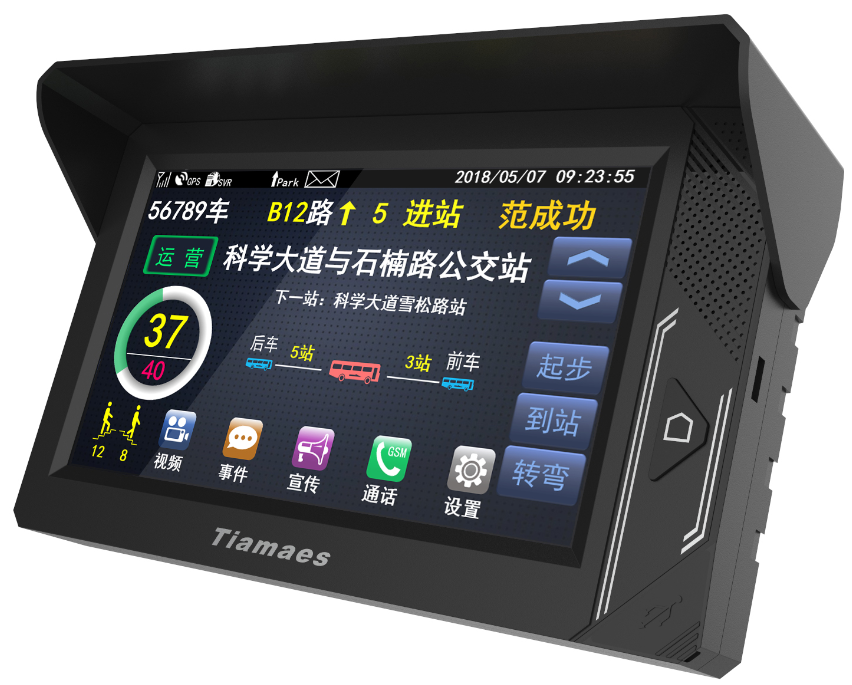
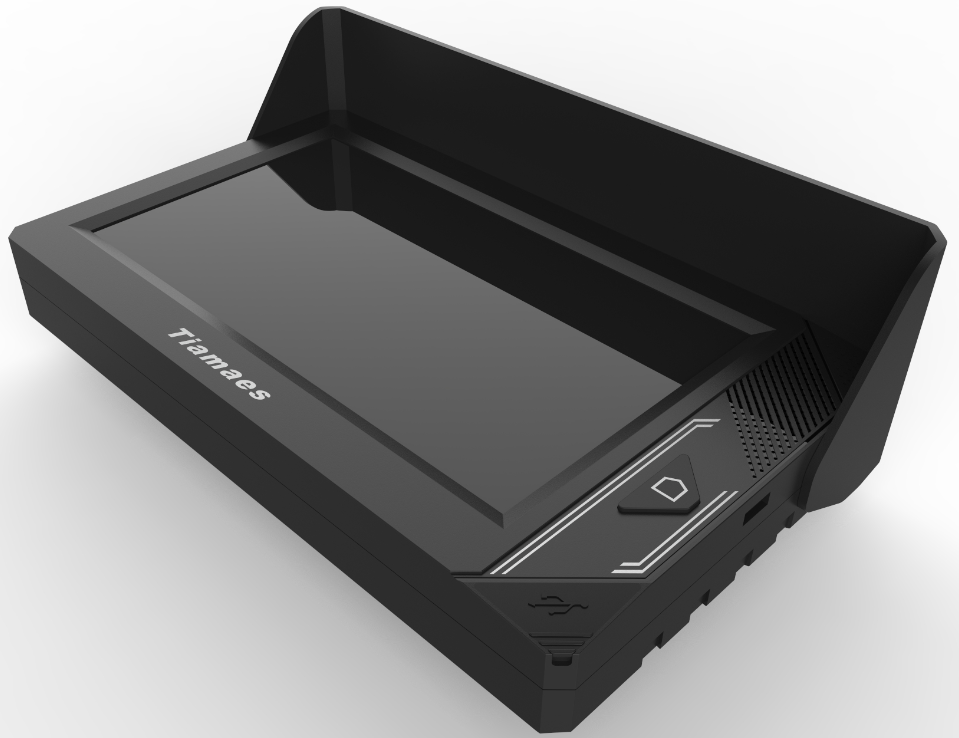
降低分辨率-1

diff --git a/docs/.vuepress/components/ElImageI18n.vue b/docs/.vuepress/components/ElImageI18n.vue
@@ -13,6 +13,10 @@ const props = defineProps({
     title: String,
     previewTeleported: String,
     srcTb: String,
+    lazy: {
+        type: Boolean,
+        default: true
+    }
 })
 
 const loadingText = computed(() =>
@@ -73,13 +77,14 @@ const getErrorStyle = computed(() => {
             };
     }
 });
+
 </script>
 
 <template>
 
     <el-image 
-        lazy
-        :src="props.srcTb ?? props.src" 
+        :lazy="props.lazy"
+        :src="props.srcTb?? props.src" 
         :alt="props.alt ?? props.title" 
         :title="props.title" 
         fit="contain" 

diff --git a/docs/.vuepress/plugins/img-to-el-img/index.js b/docs/.vuepress/plugins/img-to-el-img/index.js
@@ -8,8 +8,11 @@ export const imgToElImgPlugin = (options) => (app) => ({
             const height = token?.attrGet('height')? token?.attrGet('height')+ 'px' : '100%';
             const alt = token.content
 
+            const thumbSrc = env.base + token.attrGet('src').replace('/%E4%BA%A7%E5%93%81/', '/thumb/')
+
             return `<ElImageI18n 
                         src="${src}" 
+                        srcTb="${thumbSrc}"
                         alt="${alt}"
                         title="${alt}"
                         width="${width}"

diff --git a/docs/.vuepress/components/Carousel.vue b/docs/.vuepress/components/Carousel.vue
@@ -8,7 +8,9 @@ const props = defineProps(['height','pictures', 'motionBlur'])
     <el-carousel :motion-blur="props.motionBlur"  :height="props.height" indicator-position="outside" style="margin: 20px 0;">
         <el-carousel-item v-for="item in props.pictures" :key="item" :label="item.label">
             <ElImageI18n 
+                :lazy="false"
                 :src="item.src" 
+                :srcTb="item.srcTb"
                 :alt="item.name"
                 :title="item.name"
                 width="100%"

diff --git a/docs/zh/产品/车载调度/车载机/TM8730.md b/docs/zh/产品/车载调度/车载机/TM8730.md
@@ -23,7 +23,7 @@ next:
 
 ## 二、产品外观
 
-![TM8730车载机](/产品/车载调度/车载机/TM8730/TM8730-1.png)
+![TM8730车载机](/产品/车载调度/车载机/TM8730/TM8730-2.png)
 
 ## 三、产品设计
 
@@ -140,7 +140,7 @@ next:
 ### 2、运营、非运营切换
 点击“运营”或“非运营”键可在两种状态间进行切换，退出运营后将无法接收平台的发车点信息，限速值将启用非运营状态限速值，同时将关闭自动报站功能，但不影响手工报站和站点检测。
 
-![运营与非运营状态](/产品/车载调度/车载机/TM8730/运营与非运营状态.png)
+![运营与非运营状态](/产品/车载调度/车载机/TM8730/运营与非运营状态.png =900x240)
 
 ### 3、事件上报
 

diff --git a/docs/zh/产品/车载调度/车载机/TM8760.md b/docs/zh/产品/车载调度/车载机/TM8760.md
@@ -12,7 +12,7 @@ next:
 
 ## 一、产品图片
 
-![TM8760车载机](/产品/车载调度/车载机/TM8760/TM8760.jpg)
+![TM8760车载机](/产品/车载调度/车载机/TM8760/TM8760-1.jpg)
 
 ## 二、产品参数
 

diff --git a/docs/zh/产品/车载调度/车载机/TM8765.md b/docs/zh/产品/车载调度/车载机/TM8765.md
@@ -12,7 +12,7 @@ next:
 
 ## 一、产品图片
 
-![TM8765产品图片](/产品/车载调度/车载机/TM8765/TM8765.png)
+![TM8765产品图片](/产品/车载调度/车载机/TM8765/TM8765-1.png)
 
 ## 二、接口
 

diff --git a/docs/zh/产品/车载调度/车载机/TM8720.md b/docs/zh/产品/车载调度/车载机/TM8720.md
@@ -513,4 +513,3 @@ SIM卡在网络运营商处获得，并由运营商提供数据业务服务。
 如果有IP通话从在爆音，或IP通话时双方能听到各自的回音时，我们需要在电脑上设置麦克风如下图。
 
 ![IP对讲问题](/产品/车载调度/车载机/TM8720/IP对讲问题.png)
- 